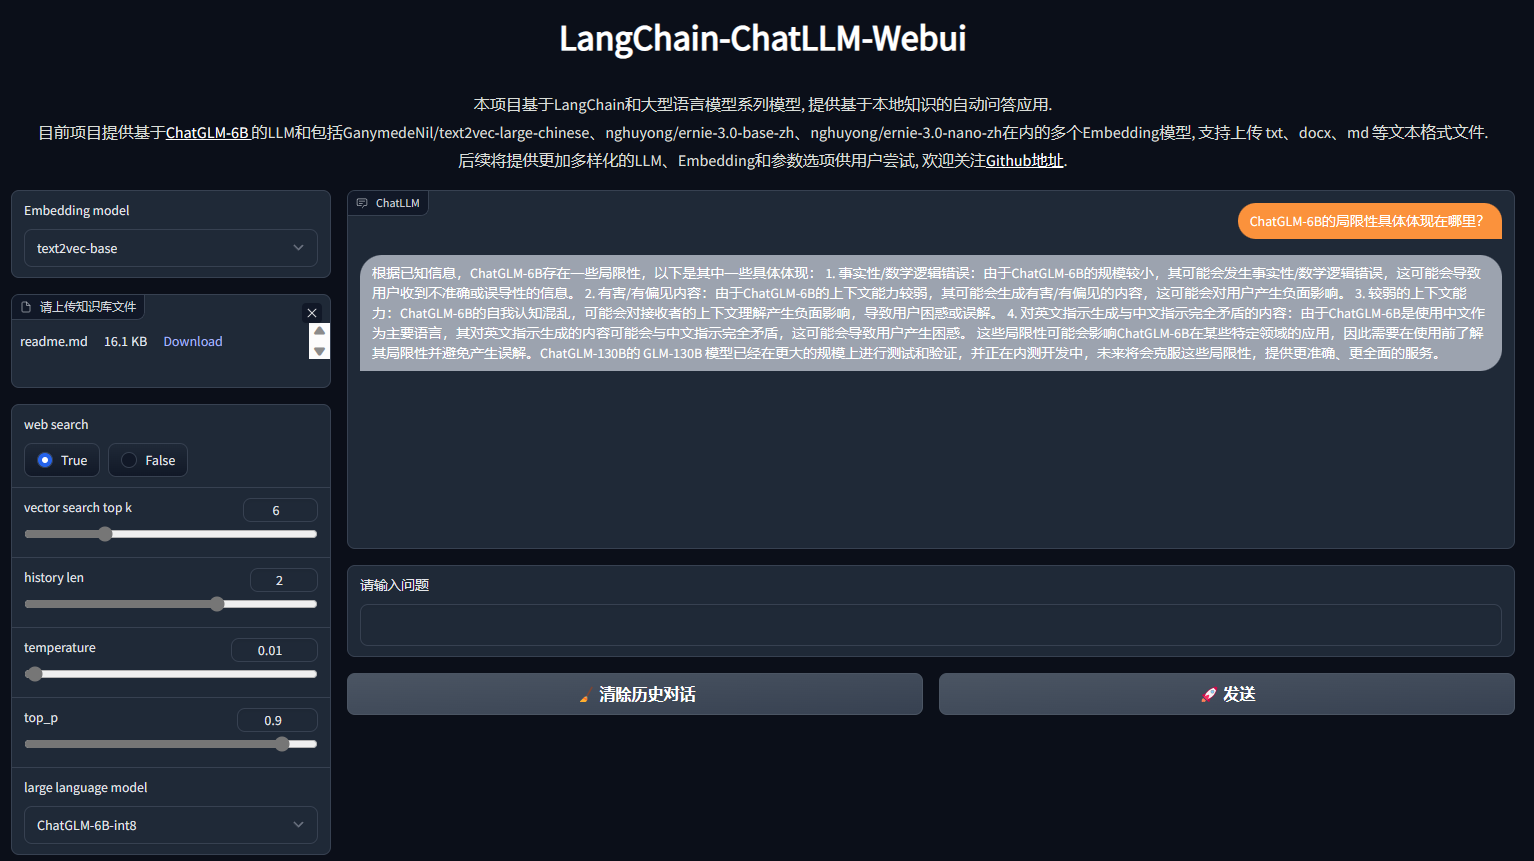
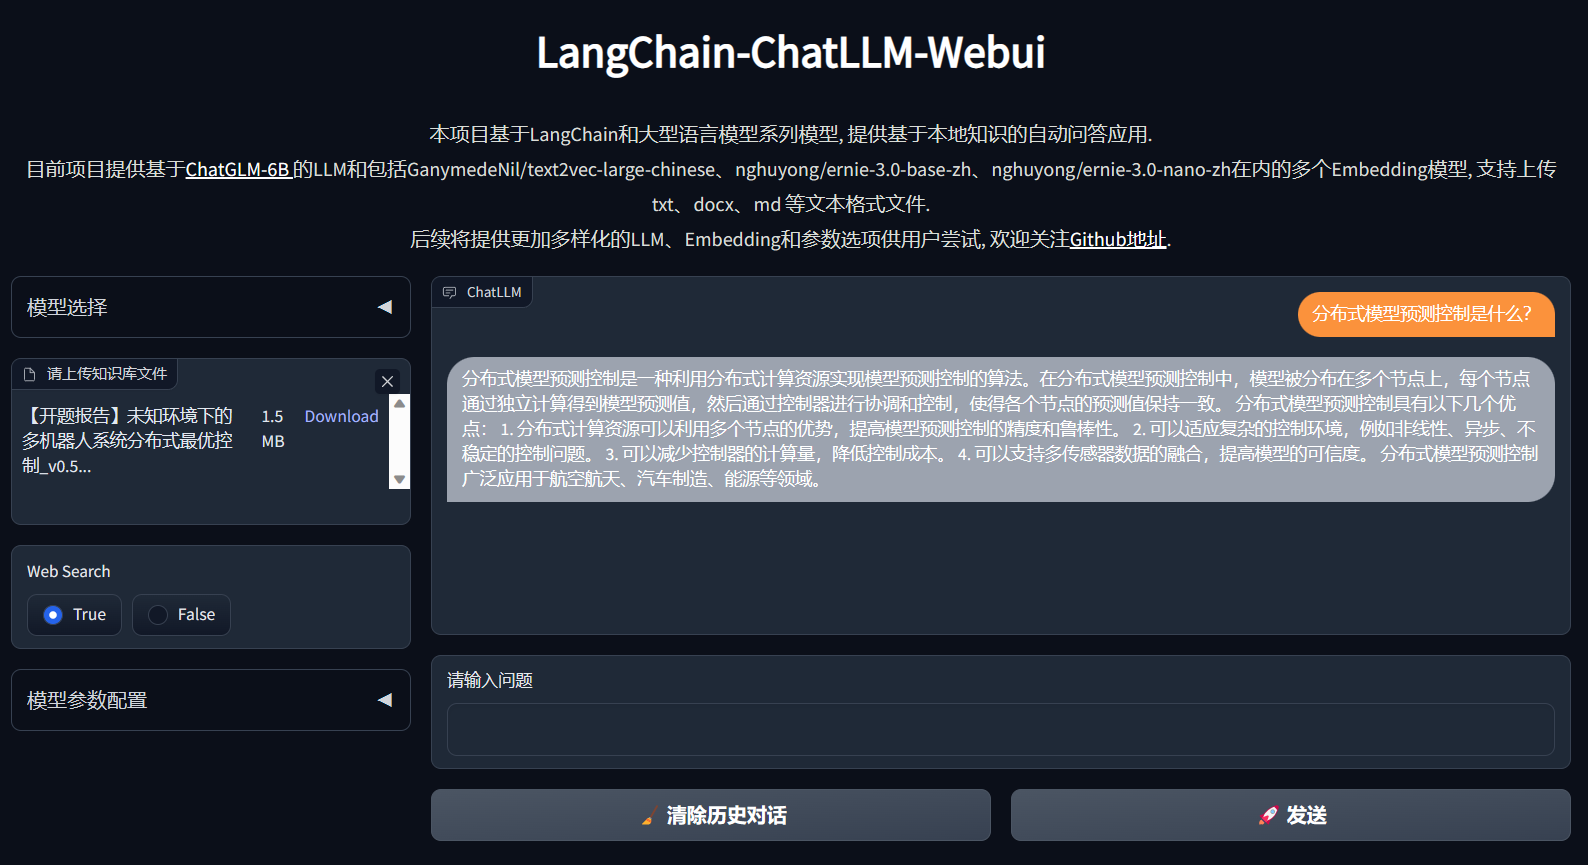
优化UI

diff --git a/app.py b/app.py
@@ -175,10 +175,16 @@ if __name__ == "__main__":
         """)
         with gr.Row():
             with gr.Column(scale=1):
+                model_choose = gr.Accordion("模型选择")
+                with model_choose:
+                    large_language_model = gr.Dropdown(
+                        list(llm_model_dict.keys()),
+                        label="large language model",
+                        value="ChatGLM-6B-int8")
 
-                embedding_model = gr.Dropdown(list(embedding_model_dict.keys()),
-                                              label="Embedding model",
-                                              value="text2vec-base")
+                    embedding_model = gr.Dropdown(list(embedding_model_dict.keys()),
+                                                label="Embedding model",
+                                                value="text2vec-base")
 
                 file = gr.File(label='请上传知识库文件',
                                file_types=['.txt', '.md', '.docx', '.pdf'])
@@ -186,37 +192,37 @@ if __name__ == "__main__":
                 use_web = gr.Radio(["True", "False"], label="Web Search",
                                value="False"
                                )
+                model_argument = gr.Accordion("模型参数配置")
 
-                VECTOR_SEARCH_TOP_K = gr.Slider(1,
-                                                20,
-                                                value=6,
-                                                step=1,
-                                                label="vector search top k",
-                                                interactive=True)
+                with model_argument:
 
-                HISTORY_LEN = gr.Slider(0,
-                                        3,
-                                        value=0,
-                                        step=1,
-                                        label="history len",
-                                        interactive=True)
+                    VECTOR_SEARCH_TOP_K = gr.Slider(1,
+                                                    20,
+                                                    value=6,
+                                                    step=1,
+                                                    label="vector search top k",
+                                                    interactive=True)
 
-                temperature = gr.Slider(0,
-                                        1,
-                                        value=0.01,
-                                        step=0.01,
-                                        label="temperature",
-                                        interactive=True)
-                top_p = gr.Slider(0,
-                                  1,
-                                  value=0.9,
-                                  step=0.1,
-                                  label="top_p",
-                                  interactive=True)
-                large_language_model = gr.Dropdown(
-                    list(llm_model_dict.keys()),
-                    label="large language model",
-                    value="ChatGLM-6B-int8")
+                    HISTORY_LEN = gr.Slider(0,
+                                            3,
+                                            value=0,
+                                            step=1,
+                                            label="history len",
+                                            interactive=True)
+
+                    temperature = gr.Slider(0,
+                                            1,
+                                            value=0.01,
+                                            step=0.01,
+                                            label="temperature",
+                                            interactive=True)
+                    top_p = gr.Slider(0,
+                                    1,
+                                    value=0.9,
+                                    step=0.1,
+                                    label="top_p",
+                                    interactive=True)
+                
 
             with gr.Column(scale=4):
                 chatbot = gr.Chatbot(label='ChatLLM').style(height=400)

diff --git a/docs/update_history.md b/docs/update_history.md
@@ -1,5 +1,10 @@
 # 更新日志
 
+## Apr 20 2023
+
+1. 优化对`.pdf`的支持
+2. 优化UI设计
+
 ## Apr 19 2023
 
 1. 提供视频部署教程
